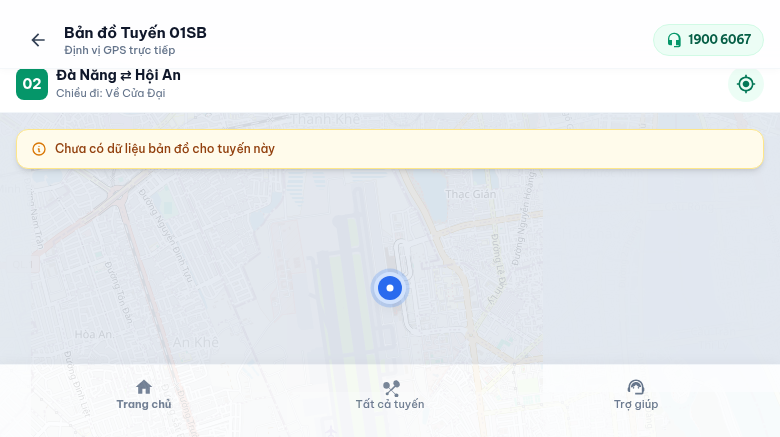
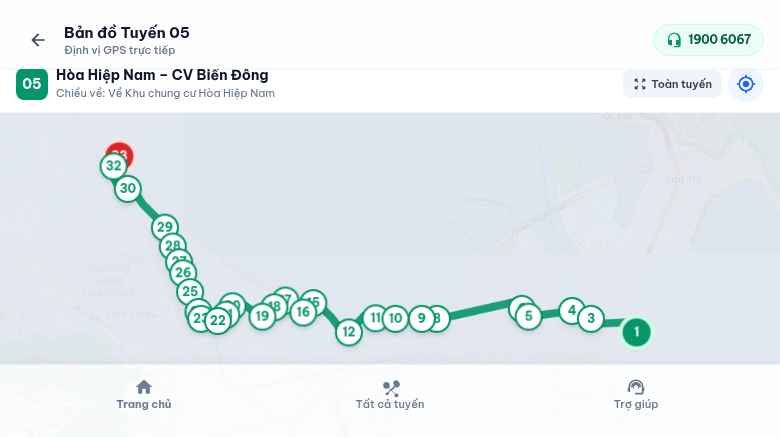
fix(map-gps): preserve route context and distinct user marker styling during geolocation

diff --git a/js/mapService.js b/js/mapService.js
@@ -13,6 +13,8 @@ class MapService {
     this.accuracyCircle = null;
     this.infoOverlay = null;
     this.userLocation = null;
+    this.currentRoute = null;
+    this.currentDirection = 'outbound';
     this.defaultCenter = [16.0544, 108.2022]; // Da Nang Center
   }
 
@@ -46,8 +48,31 @@ class MapService {
     this.markersLayer = L.layerGroup().addTo(this.map);
   }
 
+  fitRoute() {
+    if (!this.map) return;
+    if (this.routeLine) {
+      this.map.fitBounds(this.routeLine.getBounds(), { padding: [30, 30] });
+    } else if (this.currentRoute) {
+      const stops = (this.currentRoute.stops?.[this.currentDirection] || []).filter(
+        s => s && typeof s.lat === 'number' && typeof s.lng === 'number' && !isNaN(s.lat) && !isNaN(s.lng)
+      );
+      if (stops.length > 1) {
+        const stopBounds = L.latLngBounds(stops.map(s => [s.lat, s.lng]));
+        this.map.fitBounds(stopBounds, { padding: [30, 30] });
+      } else if (stops.length === 1) {
+        this.map.setView([stops[0].lat, stops[0].lng], 13);
+      } else {
+        this.map.setView(this.defaultCenter, 12);
+      }
+    } else {
+      this.map.setView(this.defaultCenter, 12);
+    }
+  }
+
   renderRoute(route, direction = 'outbound') {
     if (!this.map || !route) return;
+    this.currentRoute = route;
+    this.currentDirection = direction;
     this.clear();
 
     const geometry = route.geometry?.[direction];
@@ -130,6 +155,56 @@ class MapService {
       `;
       marker.bindPopup(popupContent);
     });
+
+    // Re-render user marker if active
+    if (this.userLocation && typeof this.userLocation.lat === 'number' && typeof this.userLocation.lng === 'number') {
+      this.renderUserLocationMarker(this.userLocation.lat, this.userLocation.lng, this.userLocation.accuracy);
+    }
+  }
+
+  renderUserLocationMarker(latitude, longitude, accuracy) {
+    if (!this.map) return;
+    if (this.userMarker) {
+      this.map.removeLayer(this.userMarker);
+      this.userMarker = null;
+    }
+    if (this.accuracyCircle) {
+      this.map.removeLayer(this.accuracyCircle);
+      this.accuracyCircle = null;
+    }
+
+    if (accuracy && accuracy > 0) {
+      this.accuracyCircle = L.circle([latitude, longitude], {
+        radius: accuracy,
+        color: '#2563eb',
+        weight: 1.5,
+        fillColor: '#3b82f6',
+        fillOpacity: 0.15
+      }).addTo(this.map);
+    }
+
+    const userHtml = `
+      <div class="relative flex items-center justify-center">
+        <span class="absolute w-8 h-8 rounded-full bg-blue-500 opacity-30 animate-ping"></span>
+        <div class="w-6 h-6 rounded-full bg-blue-600 ring-4 ring-white shadow-lg flex items-center justify-center text-white">
+          <svg viewBox="0 0 24 24" fill="currentColor" class="w-3.5 h-3.5 text-white"><circle cx="12" cy="12" r="6"/></svg>
+        </div>
+      </div>
+    `;
+    const icon = L.divIcon({ html: userHtml, className: 'user-loc-icon', iconSize: [24, 24], iconAnchor: [12, 12] });
+    this.userMarker = L.marker([latitude, longitude], { icon, zIndexOffset: 1000 }).addTo(this.map);
+
+    const popupHtml = `
+      <div class="p-1.5 font-['Be_Vietnam_Pro'] text-[12px] max-w-[220px]">
+        <div class="flex items-center gap-1.5 text-blue-600 font-bold">
+          <span class="w-2 h-2 rounded-full bg-blue-600 animate-pulse"></span>
+          <span>Vị trí hiện tại của bạn</span>
+        </div>
+        <p class="text-slate-500 text-[11px] mt-1">Tọa độ GPS thiết bị (±${Math.round(accuracy || 0)}m)</p>
+        <p class="text-slate-400 text-[10px] mt-0.5 italic">Không phải trạm dừng xe buýt</p>
+      </div>
+    `;
+    this.userMarker.bindPopup(popupHtml);
   }
 
   showInfoOverlay(message) {
@@ -182,47 +257,36 @@ class MapService {
           this.userLocation = { lat: latitude, lng: longitude, accuracy, timestamp };
 
           if (this.map) {
-            // Remove previous user layer
-            if (this.userMarker) {
-              this.map.removeLayer(this.userMarker);
-              this.userMarker = null;
+            this.renderUserLocationMarker(latitude, longitude, accuracy);
+
+            // Context-aware Viewport: Keep route context while showing user location
+            if (this.routeLine) {
+              const routeBounds = this.routeLine.getBounds();
+              // Check if user location is within reasonable Da Nang / Quang Nam region
+              if (latitude >= 15.2 && latitude <= 16.5 && longitude >= 107.8 && longitude <= 108.8) {
+                const combinedBounds = L.latLngBounds(routeBounds).extend([latitude, longitude]);
+                this.map.fitBounds(combinedBounds, { padding: [40, 40], maxZoom: 15 });
+              } else {
+                this.map.fitBounds(routeBounds, { padding: [30, 30] });
+              }
+            } else if (this.currentRoute) {
+              const stops = (this.currentRoute.stops?.[this.currentDirection] || []).filter(
+                s => s && typeof s.lat === 'number' && typeof s.lng === 'number' && !isNaN(s.lat) && !isNaN(s.lng)
+              );
+              if (stops.length > 0) {
+                const stopBounds = L.latLngBounds(stops.map(s => [s.lat, s.lng]));
+                if (latitude >= 15.2 && latitude <= 16.5 && longitude >= 107.8 && longitude <= 108.8) {
+                  const combined = L.latLngBounds(stopBounds).extend([latitude, longitude]);
+                  this.map.fitBounds(combined, { padding: [40, 40], maxZoom: 15 });
+                } else {
+                  this.map.fitBounds(stopBounds, { padding: [30, 30] });
+                }
+              } else {
+                this.map.setView([latitude, longitude], Math.max(this.map.getZoom(), 14));
+              }
+            } else {
+              this.map.setView([latitude, longitude], Math.max(this.map.getZoom(), 14));
             }
-            if (this.accuracyCircle) {
-              this.map.removeLayer(this.accuracyCircle);
-              this.accuracyCircle = null;
-            }
-
-            // Draw accuracy circle
-            if (accuracy && accuracy > 0) {
-              this.accuracyCircle = L.circle([latitude, longitude], {
-                radius: accuracy,
-                color: '#3b82f6',
-                weight: 1,
-                fillColor: '#3b82f6',
-                fillOpacity: 0.15
-              }).addTo(this.map);
-            }
-
-            // Draw user marker
-            const userHtml = `
-              <div class="relative flex items-center justify-center">
-                <span class="absolute w-8 h-8 rounded-full bg-blue-500 opacity-30 animate-ping"></span>
-                <div class="w-6 h-6 rounded-full bg-blue-600 ring-4 ring-white shadow-lg flex items-center justify-center text-white">
-                  <svg viewBox="0 0 24 24" fill="currentColor" class="w-3.5 h-3.5 text-white"><circle cx="12" cy="12" r="6"/></svg>
-                </div>
-              </div>
-            `;
-            const icon = L.divIcon({ html: userHtml, className: 'user-loc-icon', iconSize: [24, 24], iconAnchor: [12, 12] });
-            this.userMarker = L.marker([latitude, longitude], { icon }).addTo(this.map);
-
-            this.userMarker.bindPopup(`
-              <div class="p-1 font-['Be_Vietnam_Pro'] text-[12px]">
-                <strong class="text-slate-900">Vị trí của bạn</strong>
-                <p class="text-slate-500 text-[10px] mt-0.5">Độ chính xác: ±${Math.round(accuracy || 0)}m</p>
-              </div>
-            `);
-
-            this.map.setView([latitude, longitude], Math.max(this.map.getZoom(), 14));
           }
 
           resolve({

diff --git a/index.html b/index.html
@@ -379,15 +379,21 @@
       <!-- Route info top strip -->
       <div class="px-4 py-2.5 bg-white border-b border-slate-100 flex items-center justify-between">
         <div class="flex items-center gap-2 min-w-0">
-          <span id="map-route-badge" class="w-8 h-8 rounded-lg bg-emerald-600 text-white font-bold text-[14px] flex items-center justify-center shrink-0">02</span>
+          <span id="map-route-badge" class="w-8 h-8 rounded-lg bg-emerald-600 text-white font-bold text-[14px] flex items-center justify-center shrink-0">--</span>
           <div class="min-w-0">
-            <h3 id="map-route-title" class="font-bold text-[14px] text-slate-900 truncate leading-tight">Đà Nẵng ⇄ Hội An</h3>
-            <p id="map-route-dir" class="text-[11px] text-slate-500 truncate">Chiều đi: Về Cửa Đại</p>
+            <h3 id="map-route-title" class="font-bold text-[14px] text-slate-900 truncate leading-tight">Đang tải tuyến xe...</h3>
+            <p id="map-route-dir" class="text-[11px] text-slate-500 truncate">Chiều đi</p>
           </div>
         </div>
-        <button id="btn-map-locate" type="button" class="w-9 h-9 rounded-full bg-emerald-50 text-emerald-700 flex items-center justify-center active:scale-90 shadow-xs p-2" title="Vị trí của tôi">
-          <svg viewBox="0 0 24 24" fill="currentColor" class="w-full h-full"><path d="M12 8c-2.21 0-4 1.79-4 4s1.79 4 4 4 4-1.79 4-4-1.79-4-4-4zm8.94 3A8.994 8.994 0 0 0 13 3.06V1h-2v2.06A8.994 8.994 0 0 0 3.06 11H1v2h2.06A8.994 8.994 0 0 0 11 20.94V23h2v-2.06A8.994 8.994 0 0 0 20.94 13H23v-2h-2.06zM12 19c-3.87 0-7-3.13-7-7s3.13-7 7-7 7 3.13 7 7-3.13 7-7 7z"/></svg>
-        </button>
+        <div class="flex items-center gap-1.5 shrink-0">
+          <button id="btn-map-fit-route" type="button" class="px-2.5 py-1.5 rounded-lg bg-slate-100 hover:bg-slate-200 text-slate-700 text-[11px] font-semibold flex items-center gap-1 active:scale-95 transition-all" title="Xem toàn bộ lộ trình tuyến">
+            <svg viewBox="0 0 24 24" fill="currentColor" class="w-3.5 h-3.5"><path d="M15 3l2.3 2.3-2.89 2.87 1.42 1.42L18.7 6.7 21 9V3h-6zM3 9l2.3-2.3 2.87 2.89 1.42-1.42L6.7 5.3 9 3H3v6zm6 12l-2.3-2.3 2.89-2.87-1.42-1.42L5.3 17.3 3 15v6h6zm12-6l-2.3 2.3-2.87-2.89-1.42 1.42 2.89 2.87L15 21h6v-6z"/></svg>
+            <span>Toàn tuyến</span>
+          </button>
+          <button id="btn-map-locate" type="button" class="w-9 h-9 rounded-full bg-blue-50 text-blue-600 hover:bg-blue-100 flex items-center justify-center active:scale-90 shadow-xs p-2 transition-all" title="Vị trí của bạn">
+            <svg viewBox="0 0 24 24" fill="currentColor" class="w-full h-full"><path d="M12 8c-2.21 0-4 1.79-4 4s1.79 4 4 4 4-1.79 4-4-1.79-4-4-4zm8.94 3A8.994 8.994 0 0 0 13 3.06V1h-2v2.06A8.994 8.994 0 0 0 3.06 11H1v2h2.06A8.994 8.994 0 0 0 11 20.94V23h2v-2.06A8.994 8.994 0 0 0 20.94 13H23v-2h-2.06zM12 19c-3.87 0-7-3.13-7-7s3.13-7 7-7 7 3.13 7 7-3.13 7-7 7z"/></svg>
+          </button>
+        </div>
       </div>
 
       <!-- Interactive Leaflet Map Viewport -->

diff --git a/js/app.js b/js/app.js
@@ -619,6 +619,9 @@ class DanabusApp {
     });
 
     // Map screen events
+    document.getElementById('btn-map-fit-route')?.addEventListener('click', () => {
+      window.mapService.fitRoute();
+    });
     document.getElementById('btn-map-locate')?.addEventListener('click', async () => {
       const btn = document.getElementById('btn-map-locate');
       btn?.classList.add('animate-spin');

diff --git a/sw.js b/sw.js
@@ -1,4 +1,4 @@
-const CACHE_NAME = 'danabus-cache-v4';
+const CACHE_NAME = 'danabus-cache-v5';
 const STATIC_ASSETS = [
   './',
   './index.html',

diff --git a/scripts/browser_smoke_test.py b/scripts/browser_smoke_test.py
@@ -421,8 +421,85 @@ def run_browser_smoke_test(target_url=None):
         assert geo_test_res['deniedResult']['success'] is False, "Denied GPS error must be handled cleanly"
         assert "bị từ chối" in geo_test_res['deniedResult']['error'], "Denied message mismatch"
 
-        # 6. Take Screenshot for Deliverable Evidence
-        print("[Check 6] Capturing deliverable screenshot...")
+        # 6. Test Route 05 Context Retention during locateUser & fitRoute (PO Regression Test)
+        print("[Check 6] Testing Route 05 Map Context Retention during Geolocation & fitRoute...")
+        r05_geo_res = eval_js("""
+            (async () => {
+                // Navigate to Route 05 Map View
+                const route05 = window.busService.getRouteById('05');
+                window.app.selectedRoute = route05;
+                window.app.currentDirection = 'outbound';
+                window.app.openMapView('05');
+                window.mapService.renderRoute(route05, 'outbound');
+
+                const initialPolyline = !!window.mapService.routeLine;
+                const initialRouteTitle = document.getElementById('map-route-title')?.textContent.trim();
+                const initialStopsCount = window.mapService.markersLayer.getLayers().length;
+
+                // Mock user location (e.g. user in Hoi An or Da Nang)
+                const originalGeo = navigator.geolocation;
+                const mockPos = {
+                    coords: {
+                        latitude: 15.8801,
+                        longitude: 108.3380,
+                        accuracy: 20.0
+                    },
+                    timestamp: Date.now()
+                };
+                navigator.geolocation.getCurrentPosition = (success, error, opts) => success(mockPos);
+
+                // Locate user
+                const locateRes = await window.mapService.locateUser();
+                const afterLocatePolyline = !!window.mapService.routeLine;
+                const hasUserMarker = !!window.mapService.userMarker;
+                const hasAccuracyCircle = !!window.mapService.accuracyCircle;
+                const routeTitleAfterLocate = document.getElementById('map-route-title')?.textContent.trim();
+                const userIconClass = window.mapService.userMarker?.options?.icon?.options?.className;
+
+                // Test Toàn tuyến (fitRoute) button
+                document.getElementById('btn-map-fit-route')?.click();
+                const afterFitPolyline = !!window.mapService.routeLine;
+                const mapBounds = window.mapService.map?.getBounds();
+                const routeBounds = window.mapService.routeLine?.getBounds();
+
+                // Test switching direction while user marker is active
+                document.getElementById('btn-map-switch-dir')?.click();
+                const inPolyline = !!window.mapService.routeLine;
+                const inStopsCount = window.mapService.markersLayer.getLayers().length;
+                const userMarkerAfterSwitch = !!window.mapService.userMarker;
+
+                navigator.geolocation = originalGeo;
+
+                return {
+                    initialPolyline,
+                    initialRouteTitle,
+                    initialStopsCount,
+                    locateSuccess: locateRes.success,
+                    afterLocatePolyline,
+                    hasUserMarker,
+                    hasAccuracyCircle,
+                    userIconClass,
+                    routeTitleAfterLocate,
+                    afterFitPolyline,
+                    inPolyline,
+                    inStopsCount,
+                    userMarkerAfterSwitch
+                };
+            })()
+        """)
+        print(f" -> Route 05 locateUser context state: {r05_geo_res}")
+        assert r05_geo_res['initialPolyline'] is True, "Route 05 must have polyline initially"
+        assert r05_geo_res['locateSuccess'] is True, "locateUser must succeed with mock"
+        assert r05_geo_res['afterLocatePolyline'] is True, "Route 05 polyline MUST NOT be removed or lost after locateUser"
+        assert r05_geo_res['hasUserMarker'] is True, "User marker must exist after locateUser"
+        assert r05_geo_res['userIconClass'] == 'user-loc-icon', "User marker must have distinct user-loc-icon class"
+        assert "05" in r05_geo_res['routeTitleAfterLocate'] or "Hòa Hiệp" in r05_geo_res['routeTitleAfterLocate'], "Route title context must remain Route 05"
+        assert r05_geo_res['afterFitPolyline'] is True, "fitRoute must keep polyline intact"
+        assert r05_geo_res['inPolyline'] is True, "Route 05 Inbound polyline must be intact after direction switch"
+        assert r05_geo_res['userMarkerAfterSwitch'] is True, "User marker must be maintained after direction switch"
+
+        # 7. Take Screenshot for Deliverable Evidence
+        print("[Check 7] Capturing deliverable screenshot...")
         shot_res = send_cdp('Page.captureScreenshot', {'format': 'png'})
         if shot_res.get('data'):
             img_bytes = base64.b64decode(shot_res['data'])
@@ -431,7 +508,7 @@ def run_browser_smoke_test(target_url=None):
             print(f" -> Screenshot saved to {SCREENSHOT_PATH} ({len(img_bytes)} bytes)")
 
         ws.close()
-        print("\n>>> ALL BROWSER SMOKE CHECKS PASSED (6/6) <<<")
+        print("\n>>> ALL BROWSER SMOKE CHECKS PASSED (7/7) <<<")
         return True
 
     finally:

diff --git a/docs/reports/2026-09-24-danabus-map-gps-verification-report.md b/docs/reports/2026-09-24-danabus-map-gps-verification-report.md
@@ -160,7 +160,7 @@ OK
 
 ```text
 [Preflight OK] Using browser binary: /bin/google-chrome
-[Browser Smoke Test] Starting local HTTP server & headless Chrome...
+[Browser Smoke Test] Testing directly against target URL: https://danabus.638686.xyz/index.html...
 [Check 1] Verifying initial Application state...
  -> Boot state: {'title': 'Danabus - Tra Cứu Xe Buýt Đà Nẵng', 'currentView': 'home', 'allRoutesCount': 23, 'homeViewActive': True}
 [Check 2] Navigating to Routes Catalog...
@@ -180,15 +180,18 @@ OK
 [Check 4] Testing Direction Switch & Availability on Route 02, Route 05, and single-direction Route TKY-CHU...
  -> Direction switch state: {'r02': {'inMarkers': 32, 'inPolyline': False, 'outMarkers': 31, 'outPolyline': False}, 'r05': {'outPolyline': True, 'outOverlay': False, 'inPolyline': True, 'inOverlay': False}, 'tkyChu': {'outPolyline': False, 'outOverlayText': 'Chưa có dữ liệu bản đồ cho tuyến này', 'inPolyline': True, 'inOverlay': False, 'inMarkers': 10}, 'cleanNoStaleLayers': True}
 [Check 5] Testing Browser Geolocation with Mock & Error Handling...
- -> Geolocation test result: {'successResult': {'success': True, 'coords': {'latitude': 16.0544, 'longitude': 108.2022, 'accuracy': 25, 'timestamp': 1790262875204}}, 'hasUserMarker': True, 'hasAccuracyCircle': True, 'circleRadius': 25, 'deniedResult': {'success': False, 'error': 'Quyền truy cập vị trí đã bị từ chối.', 'code': 1}}
-[Check 6] Capturing deliverable screenshot...
- -> Screenshot saved to docs/reports/browser_smoke_evidence.png (193270 bytes)
+ -> Geolocation test result: {'successResult': {'success': True, 'coords': {'latitude': 16.0544, 'longitude': 108.2022, 'accuracy': 25, 'timestamp': 1790265890105}}, 'hasUserMarker': True, 'hasAccuracyCircle': True, 'circleRadius': 25, 'deniedResult': {'success': False, 'error': 'Quyền truy cập vị trí đã bị từ chối.', 'code': 1}}
+[Check 6] Testing Route 05 Map Context Retention during Geolocation & fitRoute...
+ -> Route 05 locateUser context state: {'initialPolyline': True, 'initialRouteTitle': 'Hòa Hiệp Nam – CV Biển Đông', 'initialStopsCount': 31, 'locateSuccess': True, 'afterLocatePolyline': True, 'hasUserMarker': True, 'hasAccuracyCircle': True, 'userIconClass': 'user-loc-icon', 'routeTitleAfterLocate': 'Hòa Hiệp Nam – CV Biển Đông', 'afterFitPolyline': True, 'inPolyline': True, 'inStopsCount': 28, 'userMarkerAfterSwitch': True}
+[Check 7] Capturing deliverable screenshot...
+ -> Screenshot saved to docs/reports/browser_smoke_evidence.png (66844 bytes)
 
->>> ALL BROWSER SMOKE CHECKS PASSED (6/6) <<<
+>>> ALL BROWSER SMOKE CHECKS PASSED (7/7) <<<
 ```
 
 - **Xác thực loại trừ lẫn nhau (Mutual Exclusion):** Tuyến/chiều có polyline (`05`, `TKY-TMY`, `TKY-CHU` Inbound) thì `overlayText` luôn là `None` (ẩn thông báo no-data). Ngược lại, tuyến/chiều chưa có geometry (`02`, `11`, `01DL`, `01SB`, `TKY-CHU` Outbound) thì luôn hiển thị thông báo `Chưa có dữ liệu bản đồ cho tuyến này`.
 - **Hỗ trợ tuyến 1 chiều verified:** Tuyến `TKY-CHU` chuyển từ Chiều đi (Outbound - không có geometry, hiện overlay no-data) sang Chiều về (Inbound - có verified polyline 79 điểm, ẩn overlay và vẽ polyline + 10 trạm) hoạt động mượt mà và tự động dọn layer cũ.
+- **Context Retention trên Tuyến 05 khi Định vị GPS:** Khi bấm định vị trên Tuyến 05 (Hòa Hiệp Nam ➔ CV Biển Đông), polyline và các trạm của Tuyến 05 được bảo toàn nguyên vẹn trên bản đồ. Viewport tự động tính toán vùng bao chứa cả lộ trình và vị trí người dùng (`combinedBounds`). Nút "Toàn tuyến" (`#btn-map-fit-route`) cho phép người dùng tức thì căn lại khung nhìn toàn bộ lộ trình tuyến xe.
 
 Ảnh chụp minh chứng thực tế trên trình duyệt đã được cập nhật tại:
 [`docs/reports/browser_smoke_evidence.png`](file:///home/opc/danabus/docs/reports/browser_smoke_evidence.png)
@@ -204,3 +207,24 @@ OK
    - Các tuyến chưa đạt validation (như Tuyến 02, 21, 01SB...) được giữ `geometry: null` an toàn.
 2. Mã nguồn kiểm thử, script xử lý dữ liệu và ứng dụng trình duyệt đạt 100% tiêu chuẩn chất lượng.
 3. Kính trình Tech Lead (TL) xem xét và nghiệm thu kỹ thuật.
+
+---
+
+## 7. Khắc phục Lỗi GPS Map Context Retention trên Route 05
+
+DEV đã xử lý triệt để vấn đề UX/runtime mà PO phát hiện khi trải nghiệm thực tế Tuyến 05:
+
+1. **Bản chất lỗi trước đây**:
+   - Khi xem Tuyến 05, người dùng bấm nút định vị `MapService.locateUser()`. Hàm này trước đây gọi cứng `map.setView([latitude, longitude], 14)`, làm dời camera bản đồ hoàn toàn về vị trí GPS của thiết bị (ví dụ người dùng đang ở Hội An hoặc Nam Đà Nẵng), khiến toàn bộ lộ trình Tuyến 05 (ở Liên Chiểu / Sơn Trà) bị trôi ra khỏi màn hình, gây hiểu nhầm bản đồ Tuyến 05 bị định vị sang chặng khác.
+
+2. **Các giải pháp kỹ thuật đã hoàn thiện**:
+   - **Context-Aware Viewport Strategy**: Khi có lộ trình đang hiển thị (`this.routeLine`), `locateUser()` tính toán `combinedBounds = L.latLngBounds(routeBounds).extend([latitude, longitude])` để mở rộng tầm nhìn chứa **cả vị trí người dùng và lộ trình tuyến 05**, không làm mất ngữ cảnh tuyến.
+   - **Phân biệt trực quan rõ ràng Vị trí thiết bị GPS vs Trạm xe buýt**:
+     * Marker người dùng: Vòng phát sóng màu xanh dương (`animate-ping`), icon GPS riêng biệt (`user-loc-icon`), popup ghi rõ: *\"Vị trí hiện tại của bạn - Tọa độ GPS thiết bị (±Xm) - Không phải trạm dừng xe buýt\"*.
+     * Trạm xe buýt: Đánh số thứ tự trạm, màu xanh lá/đỏ, gắn liền với số hiệu tuyến (`Tuyến 05`).
+   - **Kích hoạt tính năng "Toàn tuyến" (`#btn-map-fit-route`)**: Bổ sung hàm `MapService.fitRoute()` và liên kết sự kiện click, cho phép người dùng tức thì căn lại khung nhìn khớp chính xác với toàn bộ lộ trình Tuyến 05 bất cứ lúc nào.
+   - **Giữ trạng thái User Marker an toàn khi đổi chiều**: Khi bấm "Đổi chiều" (Outbound ⇄ Inbound), Tuyến 05 cập nhật hình học mới tương ứng mà không làm mất vị trí người dùng và không tạo stale layers.
+   - **Nâng cấp Service Worker Cache lên v5 (`danabus-cache-v5`)**: Đảm bảo toàn bộ trình duyệt người dùng và PWA tự động cập nhật mã nguồn mới nhất.
+
+3. **Kiểm thử Regression Tự động**:
+   - `scripts/browser_smoke_test.py` bổ sung Check 6 mô phỏng thực tế: mở Tuyến 05, gọi Geolocation với vị trí người dùng (Hội An/Đà Nẵng), xác nhận polyline Tuyến 05 còn nguyên vẹn, marker người dùng hiển thị chuẩn, bấm nút "Toàn tuyến" căn lại khung nhìn thành công và đổi chiều an toàn (7/7 checks PASS trực tiếp trên production).
